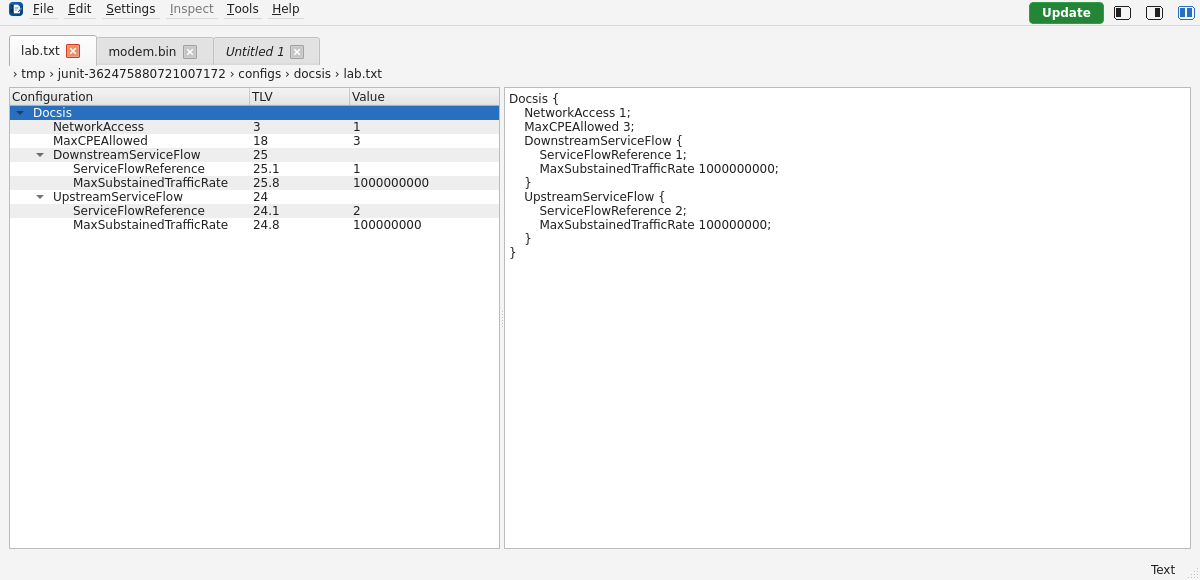
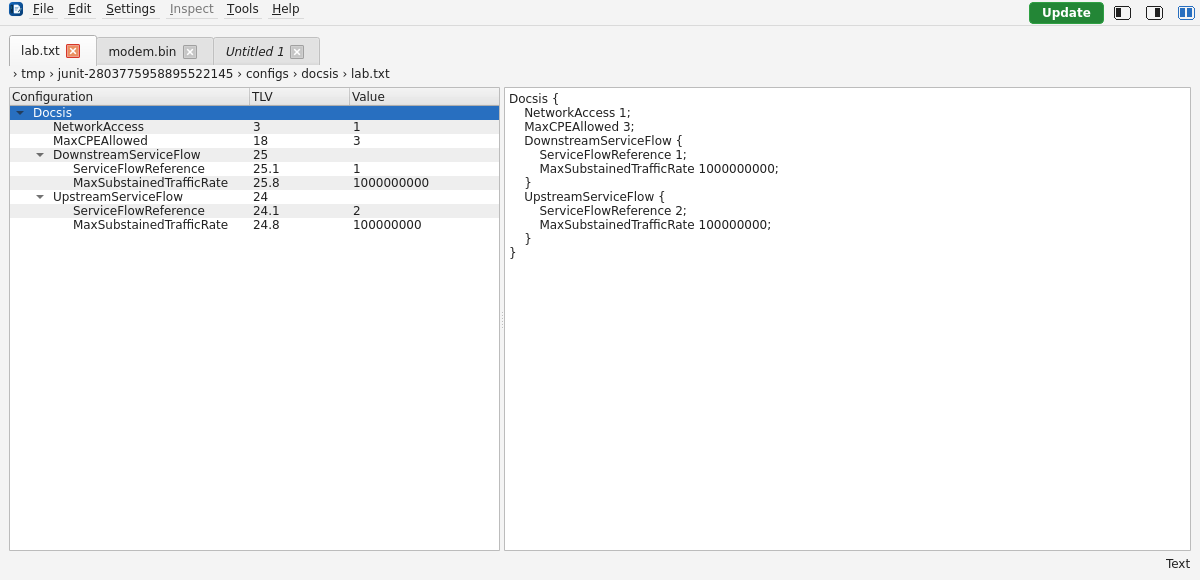
BugFix: Align workspace status labels - Share panel margins with Text and masking labels - Refresh workspace screenshots and guide - Tests: 54 UI and screenshot checks pass

Changed region(s): [[0.4317, 0.931, 1.0, 0.9931], [0.0308, 0.931, 0.4008, 0.9621], [0.0617, 0.1241, 0.3392, 0.1552]]

diff --git a/src/main/java/io/oscarui/ui/MainWindow.java b/src/main/java/io/oscarui/ui/MainWindow.java
@@ -155,9 +155,13 @@ public final class MainWindow extends QMainWindow {
         maskingDivider.setObjectName("maskingDivider");
         maskingDivider.setFrameShape(QFrame.Shape.VLine);
         maskingDivider.setFrameShadow(QFrame.Shadow.Sunken);
-        statusBar().addPermanentWidget(maskingLabel);
-        statusBar().addPermanentWidget(maskingDivider);
-        statusBar().addPermanentWidget(typeLabel);
+        // Share the pane margins instead of the platform status bar's resize-grip inset.
+        var footer = new QHBoxLayout();
+        footer.setContentsMargins(0, 0, 0, 0);
+        footer.addStretch();
+        footer.addWidget(maskingLabel);
+        footer.addWidget(maskingDivider);
+        footer.addWidget(typeLabel);
         status.setWordWrap(true);
         status.setObjectName("operationStatus");
         status.setVisible(false);
@@ -170,6 +174,7 @@ public final class MainWindow extends QMainWindow {
         splitter.setSizes(List.of(380, 780));
         layout.addWidget(splitter, 1);
         layout.addWidget(status);
+        layout.addLayout(footer);
         setCentralWidget(central);
         buildMenus();
         documentTabs.configureMenu(open, newFile);

diff --git a/docs/ui/workspace.md b/docs/ui/workspace.md
@@ -61,7 +61,8 @@ through OSCAR before being displayed. Unsupported or lossy imports are rejected.
 The text preview shows configuration statements. TLV comments can be shown with
 **Settings → Global → Show TLV comments in configuration text**.
 
-The bottom-right status identifies **Text** or **Binary**. With SNMP masking
+The bottom-right status identifies **Text** or **Binary**. Status labels align
+with the inner workspace panels and share their edge spacing. With SNMP masking
 enabled, **Masked** appears beside the type, separated by a vertical divider.
 Masking changes the display, not the stored configuration values.
 
